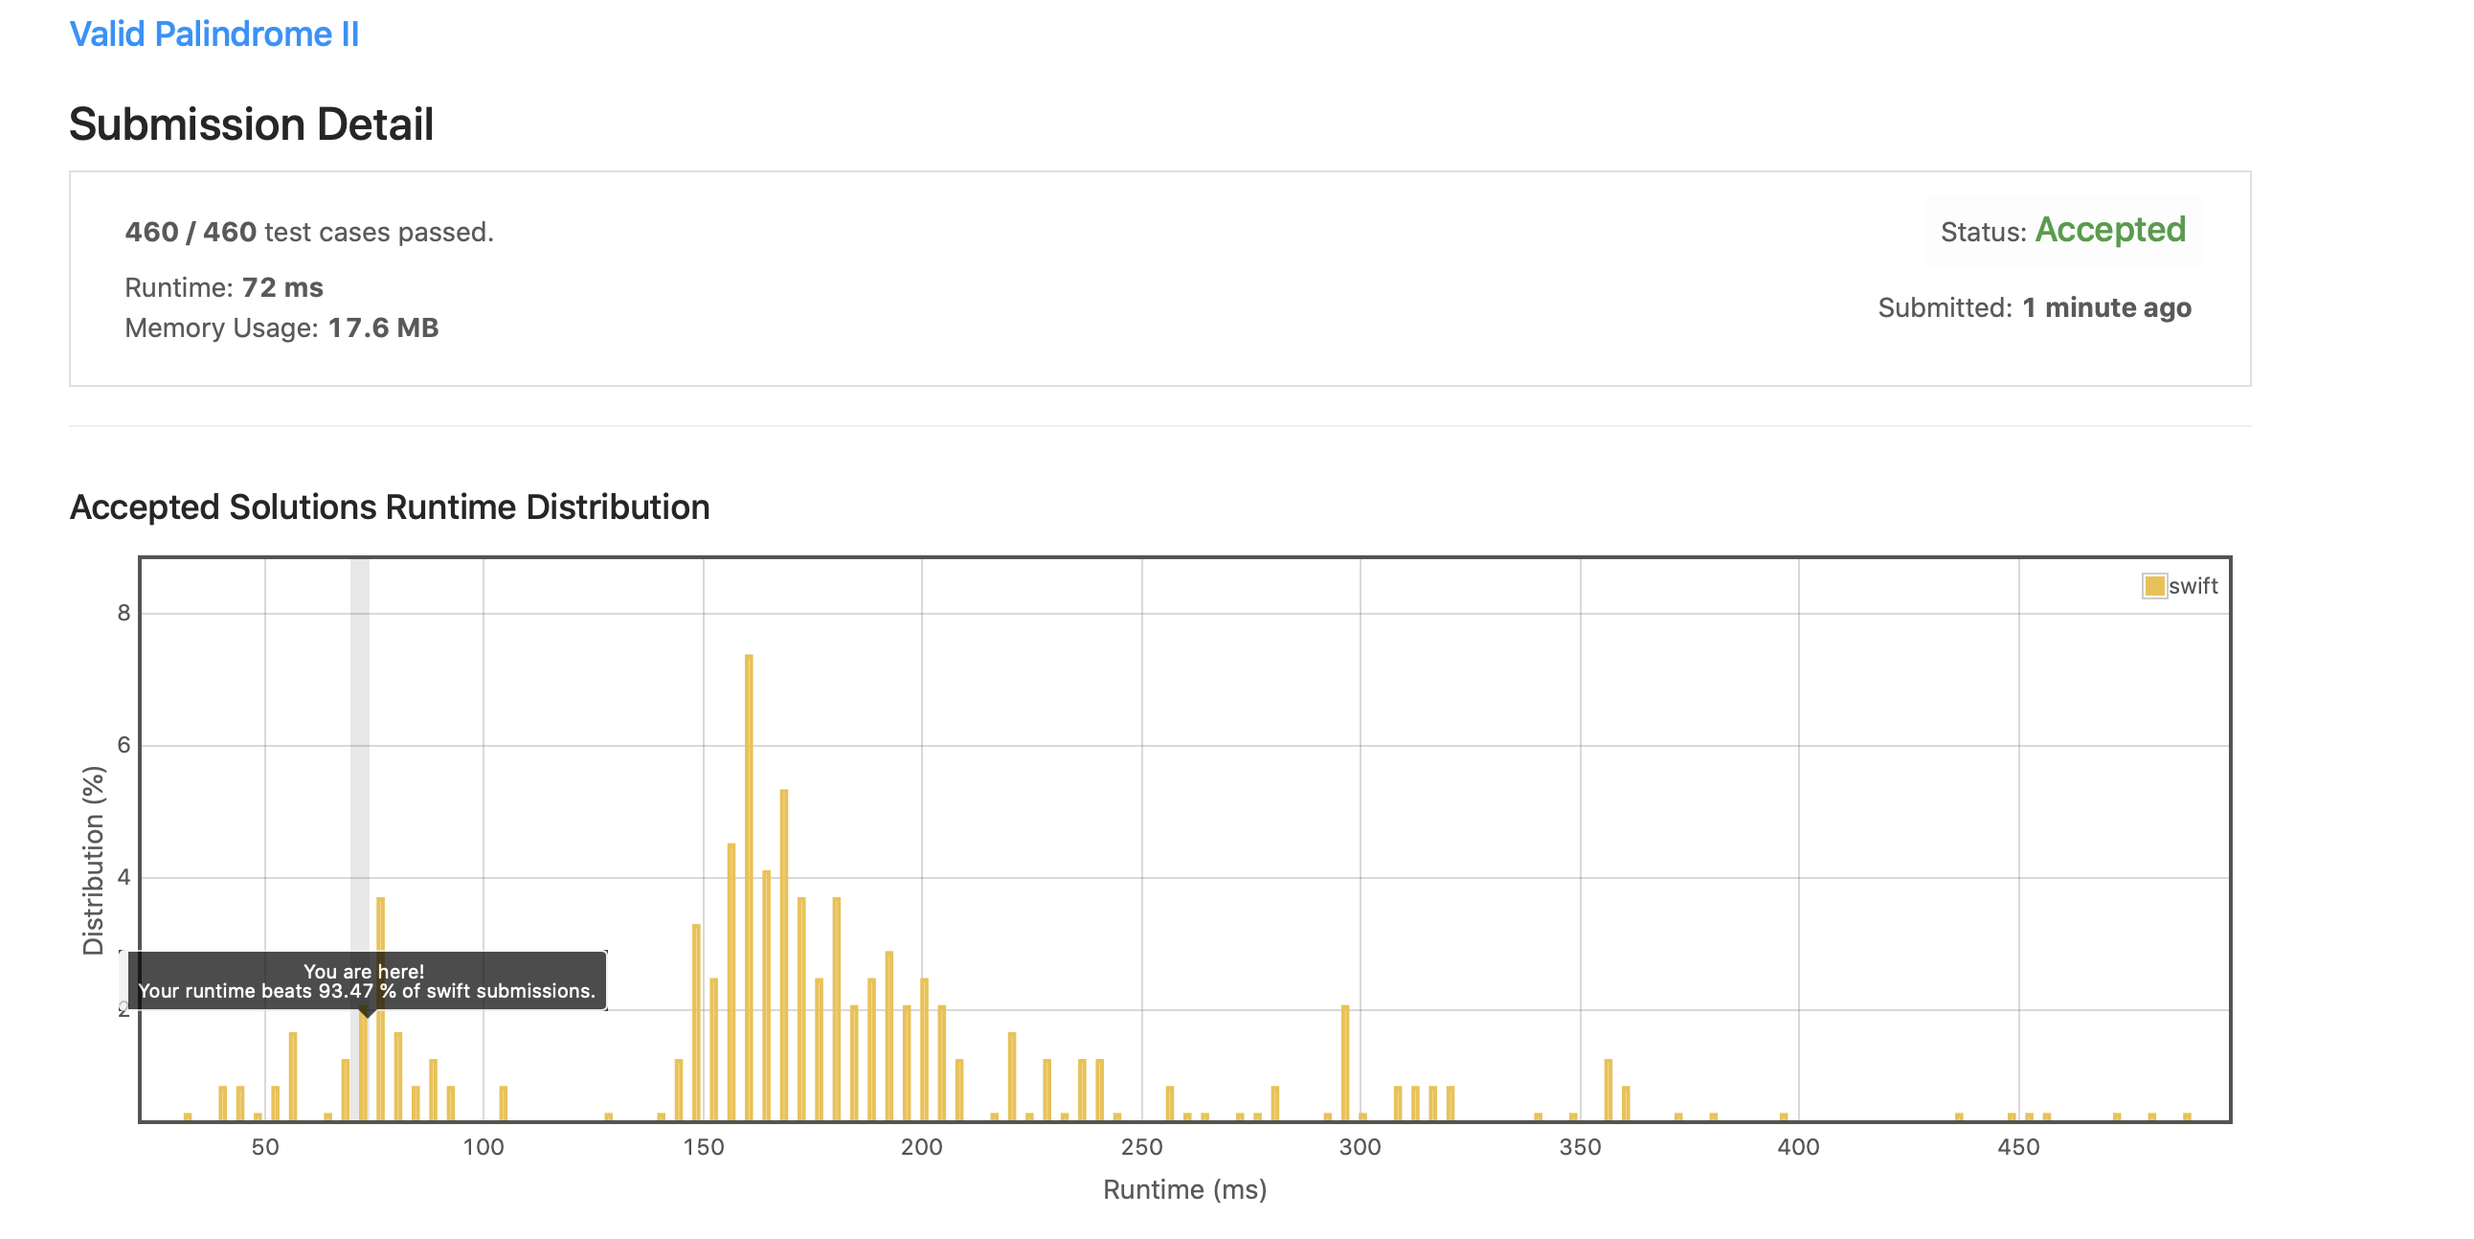
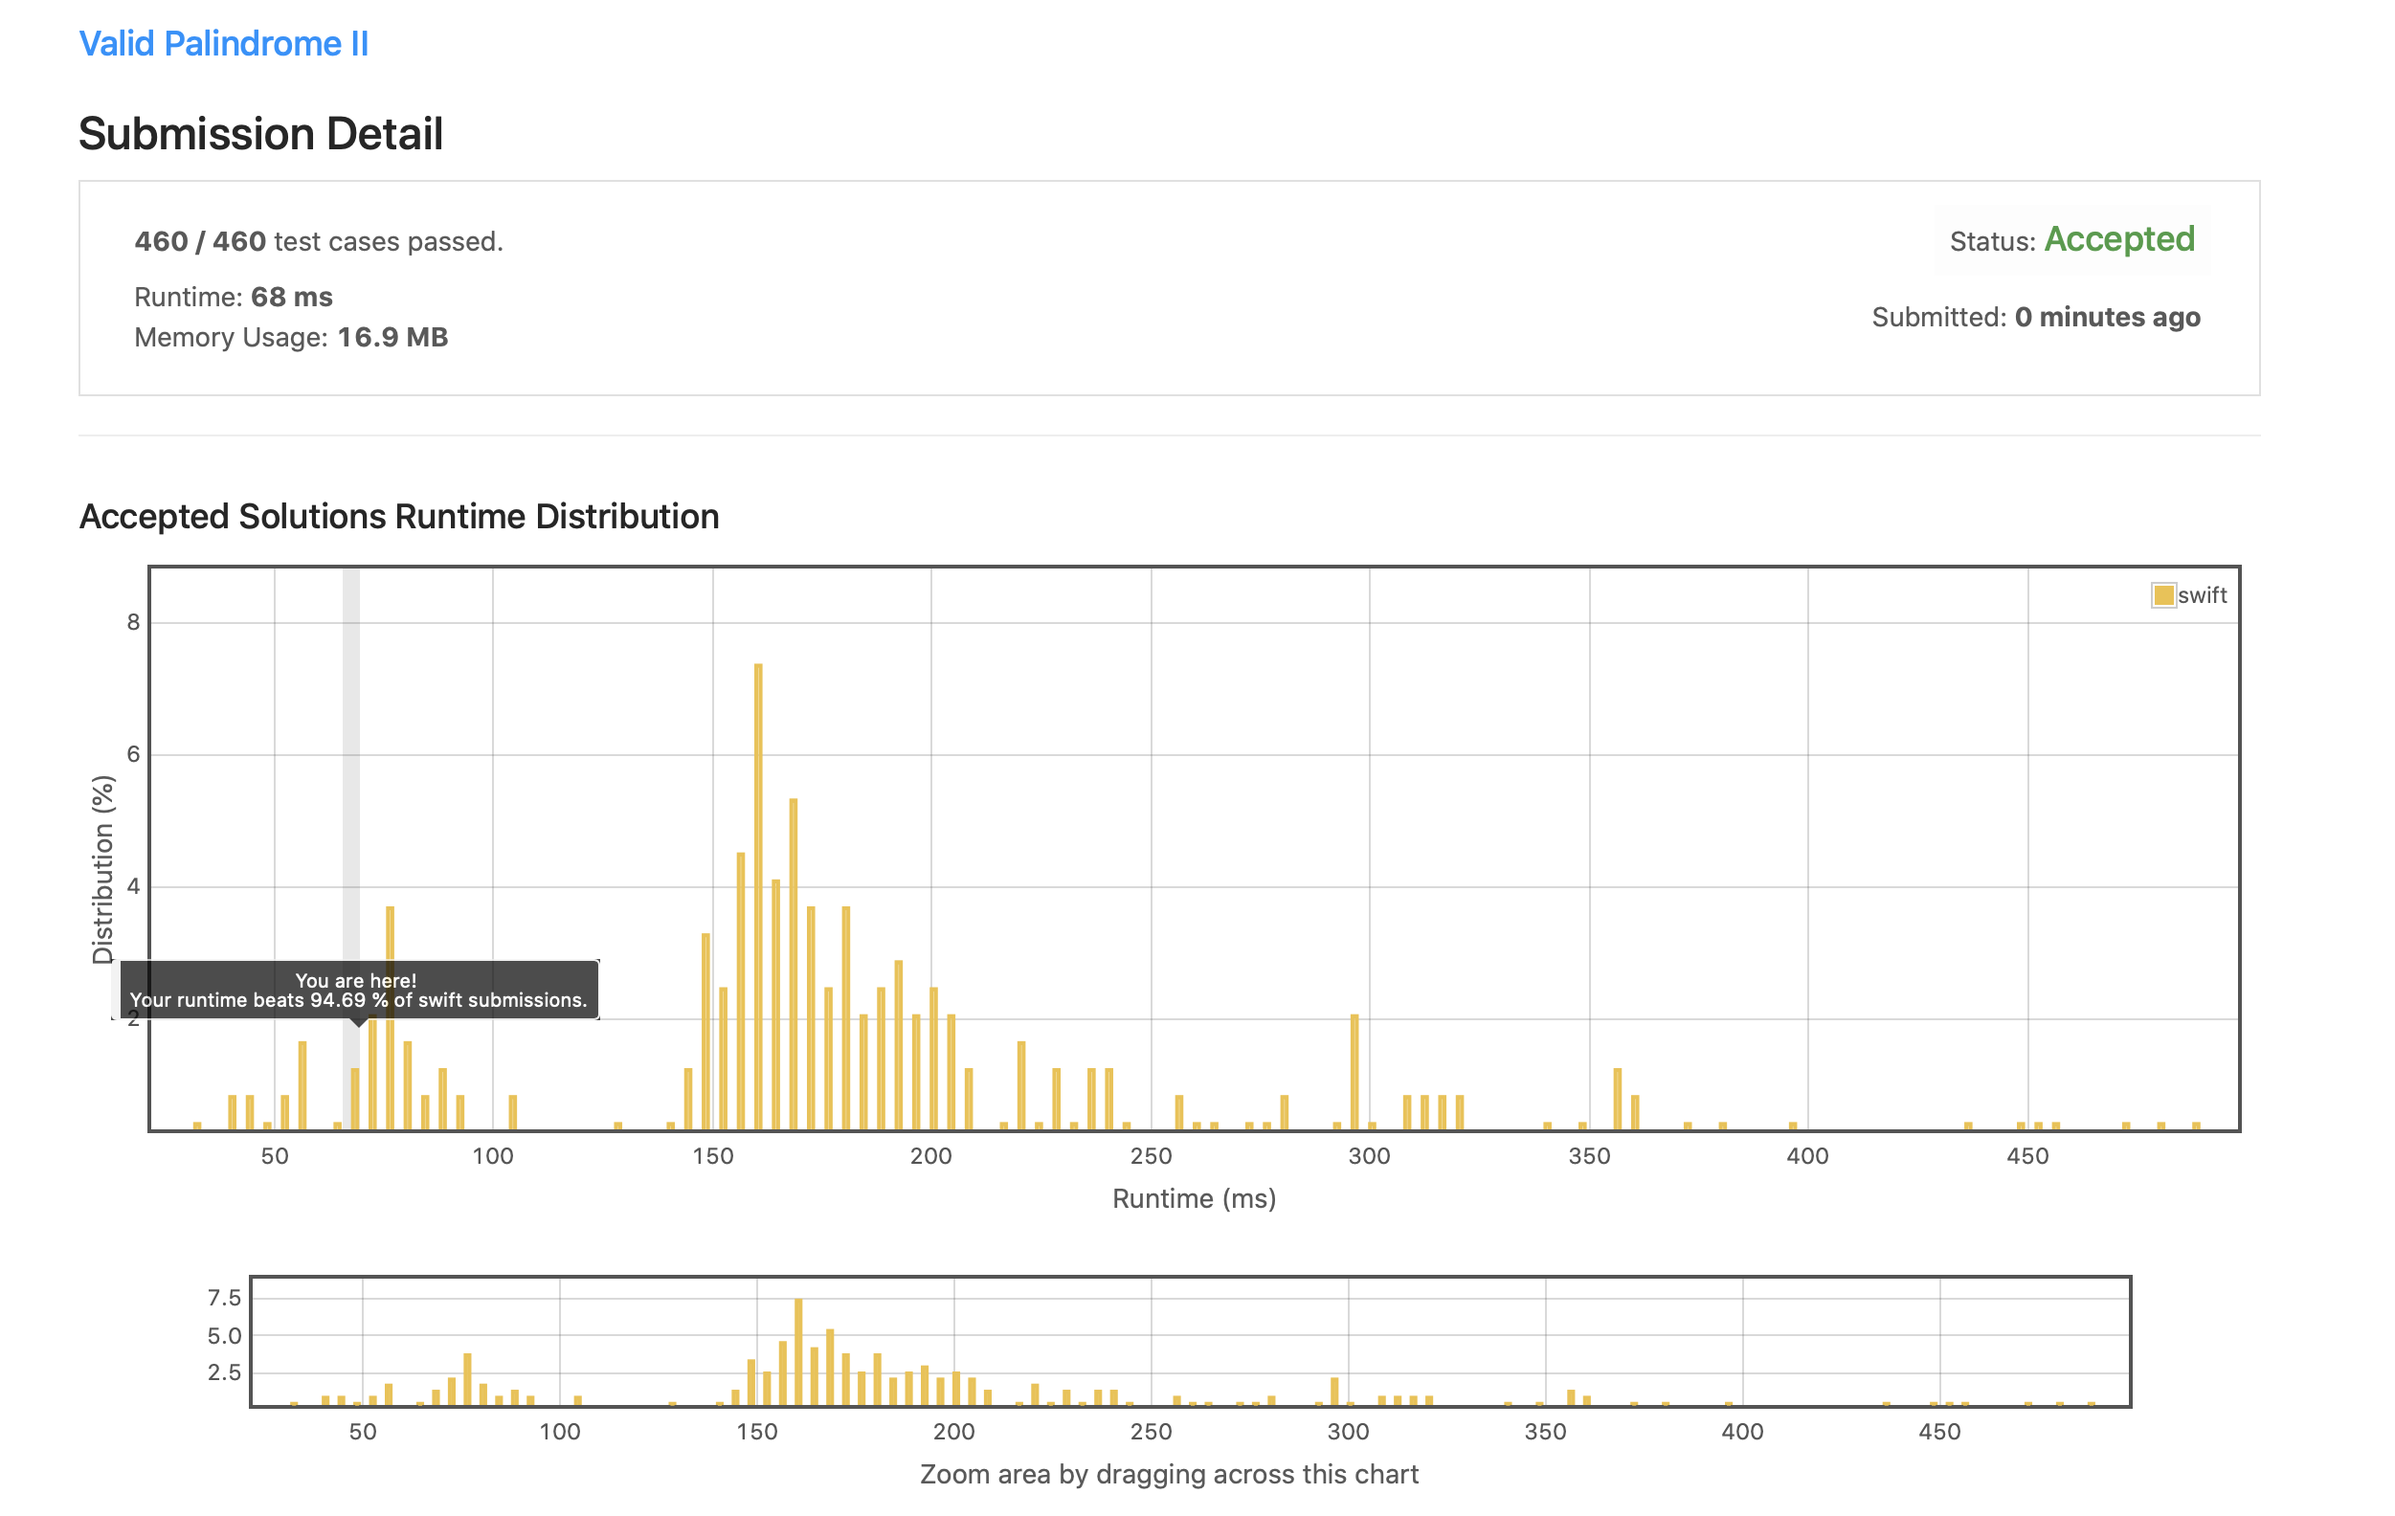
optimized CChar solution

diff --git a/680. Valid Palindrome II/ValidPalindromeII_CChar.swift b/680. Valid Palindrome II/ValidPalindromeII_CChar.swift
@@ -5,8 +5,8 @@
 //  Created by Paul Hsieh on 2020/12/15.
 //
 
-/// Runtime: 72 ms, faster than 93.47% of Swift online submissions for Valid Palindrome II.
-/// Memory Usage: 17.6 MB, less than 5.71% of Swift online submissions for Valid Palindrome II.
+/// Runtime: 68 ms, faster than 94.69% of Swift online submissions for Valid Palindrome II.
+/// Memory Usage: 16.9 MB, less than 6.53% of Swift online submissions for Valid Palindrome II.
 
 class Solution {
     func validPalindrome(_ s: String) -> Bool {
@@ -22,18 +22,14 @@ class Solution {
         if startIndex >= endIndex {
             return true
         } else {
-            var leftArray = charArray
-            leftArray.remove(at: startIndex)
-            var rightArray = charArray
-            rightArray.remove(at: endIndex)
-            return validate(leftArray, from: 0, to: leftArray.count - 2) || validate(rightArray, from: 0, to: rightArray.count - 2)
+            return validate(charArray, from: startIndex + 1, to: endIndex) || validate(charArray, from: startIndex, to: endIndex - 1)
         }
     }
     
     func validate(_ s: [CChar], from: Int, to: Int) -> Bool {
         guard s.count > 2 else { return true }
-        var startIndex = 0
-        var endIndex = s.count - 2
+        var startIndex = from
+        var endIndex = to
         while startIndex < to {
             if s[startIndex] != s[endIndex] {
                 return false
